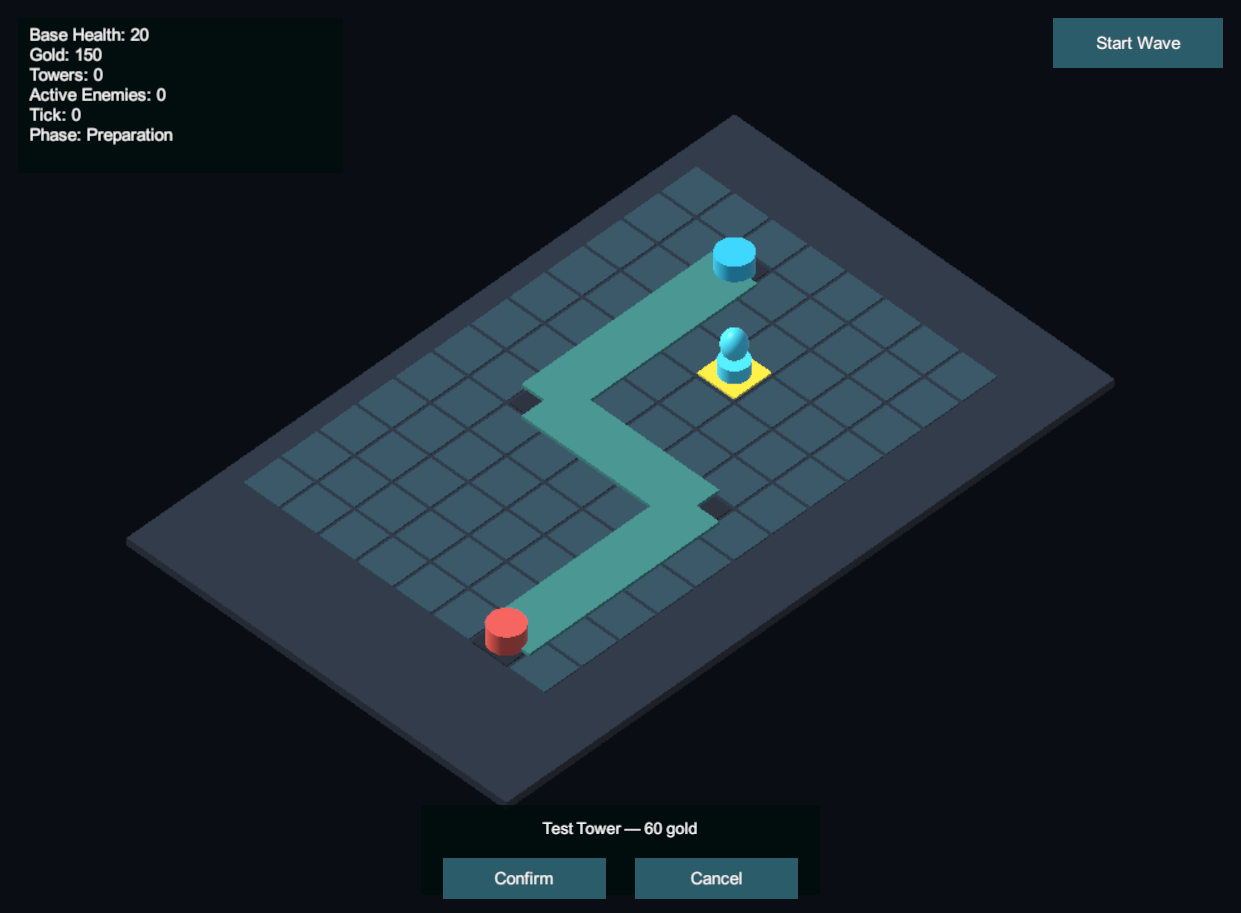
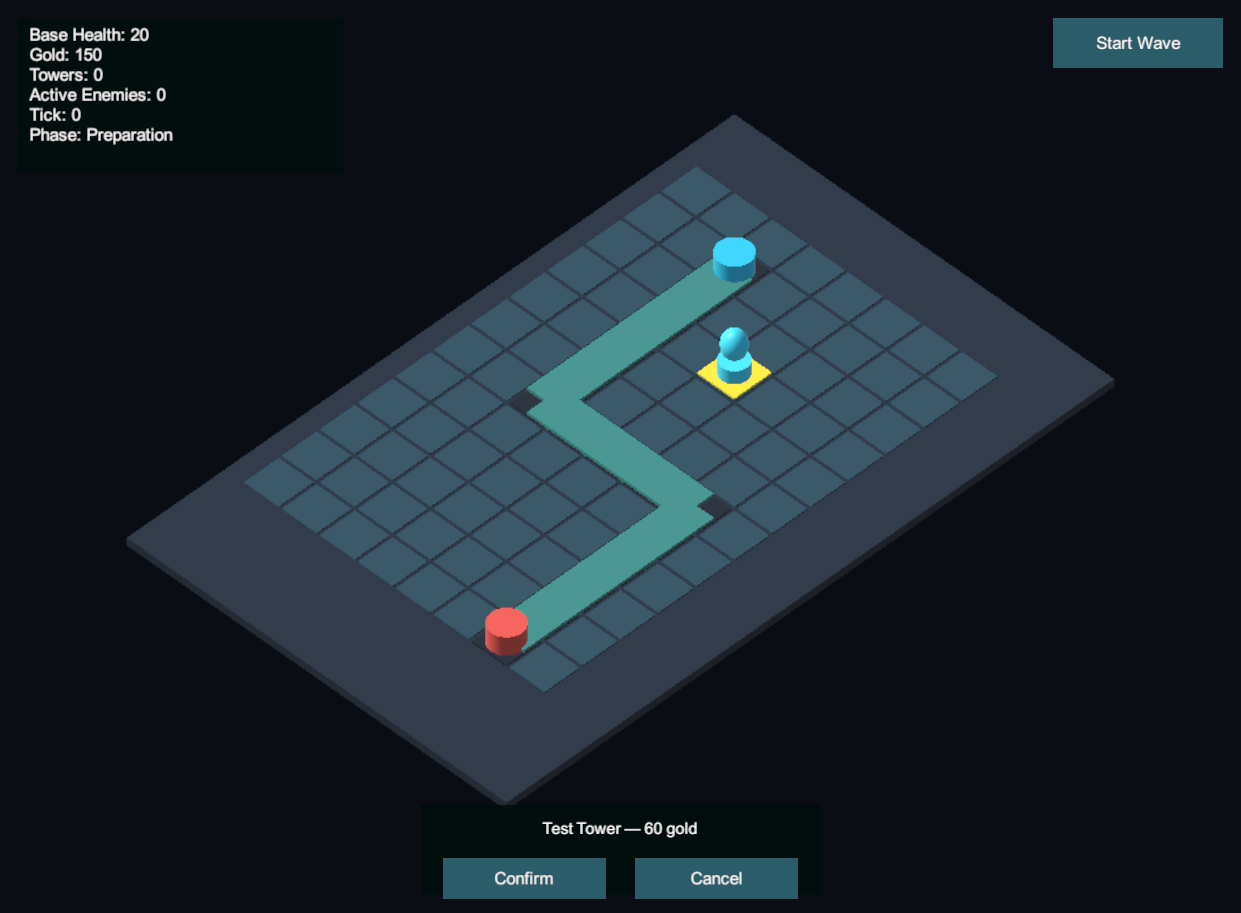
fix: scale battle visuals with cell size

diff --git a/Assets/_Game/Tests/EditMode/BattlePlacementVisualTests.cs b/Assets/_Game/Tests/EditMode/BattlePlacementVisualTests.cs
@@ -1,0 +1,153 @@
+using System.Linq;
+using System.Reflection;
+using NUnit.Framework;
+using UnityEditor;
+using UnityEngine;
+using UnityEngine.UI;
+using Veilward.Domain;
+using Veilward.Presentation;
+
+namespace Veilward.Tests.EditMode
+{
+    public sealed class BattlePlacementVisualTests
+    {
+        private GameObject _root;
+        private BattleScenarioConfig _config;
+        private BattleSceneController _battle;
+        private GameObject _towerPrefab;
+
+        [SetUp]
+        public void SetUp()
+        {
+            _root = new GameObject("Half Cell Visual Tests");
+            _config = BattleScenarioConfig.CreateDefault();
+            var serializedConfig = new SerializedObject(_config);
+            serializedConfig.FindProperty("cellSize").floatValue = 0.5f;
+            var waypoints = serializedConfig.FindProperty("waypoints");
+            waypoints.arraySize = 2;
+            waypoints.GetArrayElementAtIndex(0).vector2IntValue = new Vector2Int(-2, 0);
+            waypoints.GetArrayElementAtIndex(1).vector2IntValue = new Vector2Int(2, 0);
+            serializedConfig.ApplyModifiedPropertiesWithoutUndo();
+
+            var towerAsset = AssetDatabase.LoadAssetAtPath<GameObject>("Assets/_Game/Prefabs/TestTower.prefab");
+            Assert.That(towerAsset, Is.Not.Null);
+            _towerPrefab = Object.Instantiate(towerAsset, _root.transform);
+            _towerPrefab.name = "Tower Prefab";
+            var enemyPrefab = new GameObject("Enemy Prefab");
+            enemyPrefab.transform.SetParent(_root.transform, false);
+            var hud = new GameObject("HUD", typeof(Text));
+            hud.transform.SetParent(_root.transform, false);
+
+            var battleObject = new GameObject("Battle", typeof(BattleSceneController));
+            battleObject.transform.SetParent(_root.transform, false);
+            _battle = battleObject.GetComponent<BattleSceneController>();
+            var serializedBattle = new SerializedObject(_battle);
+            serializedBattle.FindProperty("scenario").objectReferenceValue = _config;
+            serializedBattle.FindProperty("enemyPrefab").objectReferenceValue = enemyPrefab.transform;
+            serializedBattle.FindProperty("towerPrefab").objectReferenceValue = _towerPrefab.transform;
+            serializedBattle.FindProperty("hudText").objectReferenceValue = hud.GetComponent<Text>();
+            serializedBattle.ApplyModifiedPropertiesWithoutUndo();
+            Invoke(_battle, "Start");
+        }
+
+        [TearDown]
+        public void TearDown()
+        {
+            if (_root != null)
+            {
+                Object.DestroyImmediate(_root);
+            }
+
+            if (_config != null)
+            {
+                Object.DestroyImmediate(_config);
+            }
+        }
+
+        [Test]
+        public void Placement_HalfSizeCells_ScalesSelectionAndPreview()
+        {
+            var selection = GameObject.CreatePrimitive(PrimitiveType.Cube);
+            selection.name = "Selection Highlight";
+            selection.transform.SetParent(_root.transform, false);
+            selection.transform.localScale = new Vector3(0.98f, 0.04f, 0.98f);
+            var preview = Object.Instantiate(_towerPrefab, _root.transform);
+            preview.name = "Tower Preview";
+            var panel = new GameObject("Placement Panel", typeof(RectTransform));
+            panel.transform.SetParent(_root.transform, false);
+            var confirm = CreateButton("Confirm");
+            var cancel = CreateButton("Cancel");
+            var startWave = CreateButton("Start Wave");
+            var cameraObject = new GameObject("Camera", typeof(Camera));
+            cameraObject.transform.SetParent(_root.transform, false);
+
+            var placement = _battle.gameObject.AddComponent<BattlePlacementController>();
+            var serializedPlacement = new SerializedObject(placement);
+            serializedPlacement.FindProperty("battle").objectReferenceValue = _battle;
+            serializedPlacement.FindProperty("worldCamera").objectReferenceValue = cameraObject.GetComponent<Camera>();
+            serializedPlacement.FindProperty("selectionHighlight").objectReferenceValue = selection.transform;
+            serializedPlacement.FindProperty("towerPreview").objectReferenceValue = preview.transform;
+            serializedPlacement.FindProperty("confirmationPanel").objectReferenceValue = panel;
+            serializedPlacement.FindProperty("confirmButton").objectReferenceValue = confirm;
+            serializedPlacement.FindProperty("cancelButton").objectReferenceValue = cancel;
+            serializedPlacement.FindProperty("startWaveButton").objectReferenceValue = startWave;
+            serializedPlacement.ApplyModifiedPropertiesWithoutUndo();
+            Invoke(placement, "Start");
+
+            Assert.That(placement.TrySelectCell(new GridCoordinate(-3, 1)), Is.True);
+            AssertVector(selection.transform.localScale, new Vector3(0.49f, 0.04f, 0.49f));
+            AssertVector(preview.transform.localScale, Vector3.one * 0.5f);
+        }
+
+        [Test]
+        public void Towers_HalfSizeCells_AdjacentFootprintsDoNotIntersect()
+        {
+            Assert.That(_battle.PlaceTower(new GridCoordinate(-3, 1)).Success, Is.True);
+            Assert.That(_battle.PlaceTower(new GridCoordinate(-2, 1)).Success, Is.True);
+            Invoke(_battle, "LateUpdate");
+
+            var towers = _battle.transform.Cast<Transform>()
+                .Where(child => child.name.StartsWith("Tower "))
+                .ToArray();
+            Assert.That(towers.Length, Is.EqualTo(2));
+            AssertVector(towers[0].localScale, Vector3.one * 0.5f);
+            AssertVector(towers[1].localScale, Vector3.one * 0.5f);
+            Assert.That(
+                GetBounds(towers[0]).Intersects(GetBounds(towers[1])),
+                Is.False,
+                "Towers on adjacent cells must not overlap.");
+        }
+
+        private Button CreateButton(string name)
+        {
+            var buttonObject = new GameObject(name, typeof(RectTransform), typeof(Button));
+            buttonObject.transform.SetParent(_root.transform, false);
+            return buttonObject.GetComponent<Button>();
+        }
+
+        private static Bounds GetBounds(Transform root)
+        {
+            var renderers = root.GetComponentsInChildren<Renderer>();
+            Assert.That(renderers.Length, Is.GreaterThan(0));
+            var bounds = renderers[0].bounds;
+            for (var index = 1; index < renderers.Length; index++)
+            {
+                bounds.Encapsulate(renderers[index].bounds);
+            }
+
+            return bounds;
+        }
+
+        private static void Invoke(object target, string methodName)
+        {
+            var method = target.GetType().GetMethod(methodName, BindingFlags.Instance | BindingFlags.NonPublic);
+            Assert.That(method, Is.Not.Null, methodName);
+            method.Invoke(target, null);
+        }
+
+        private static void AssertVector(Vector3 actual, Vector3 expected)
+        {
+            Assert.That(Vector3.Distance(actual, expected), Is.LessThan(0.0001f));
+        }
+    }
+}

diff --git a/Assets/_Game/Scripts/Editor/BattleSceneBuilder.cs b/Assets/_Game/Scripts/Editor/BattleSceneBuilder.cs
@@ -67,8 +67,9 @@ namespace Veilward.Editor
             CreatePathGeometry(config, pathMaterial, spawnMaterial, heartMaterial);
             var battleCamera = CreateCamera();
             CreateLight();
-            var selection = CreateSelection(selectionMaterial);
-            var preview = CreatePreview(towerPrefab, previewMaterial);
+            var cellSize = config.CreateSimulation().Grid.Map.CellSize;
+            var selection = CreateSelection(selectionMaterial, cellSize);
+            var preview = CreatePreview(towerPrefab, previewMaterial, cellSize);
             var hud = CreateHud(config.CreateSimulation().TowerDefinition.Price);
             CreateEventSystem();
             CreateController(config, enemyPrefab.transform, towerPrefab.transform, battleCamera, selection, preview, hud);
@@ -117,7 +118,9 @@ namespace Veilward.Editor
             Material spawnMaterial,
             Material heartMaterial)
         {
-            var path = config.CreateSimulation().Path;
+            var simulation = config.CreateSimulation();
+            var path = simulation.Path;
+            var pathWidth = simulation.Grid.Map.CellSize * 0.92f;
             var root = new GameObject("Path Geometry");
             for (var index = 0; index < path.Points.Count - 1; index++)
             {
@@ -130,7 +133,7 @@ namespace Veilward.Editor
                 segment.transform.SetParent(root.transform, false);
                 segment.transform.position = (start + end) * 0.5f;
                 segment.transform.rotation = Quaternion.LookRotation(delta.normalized);
-                segment.transform.localScale = new Vector3(1.2f, 0.1f, delta.magnitude);
+                segment.transform.localScale = new Vector3(pathWidth, 0.1f, delta.magnitude);
                 segment.GetComponent<Renderer>().sharedMaterial = pathMaterial;
             }
 
@@ -161,19 +164,20 @@ namespace Veilward.Editor
             return prefab;
         }
 
-        private static Transform CreateSelection(Material material)
+        private static Transform CreateSelection(Material material, float cellSize)
         {
             var selection = CreatePrimitive(PrimitiveType.Cube, "Selection Highlight");
-            selection.transform.localScale = new Vector3(0.98f, 0.04f, 0.98f);
+            selection.transform.localScale = new Vector3(0.98f * cellSize, 0.04f, 0.98f * cellSize);
             selection.GetComponent<Renderer>().sharedMaterial = material;
             selection.SetActive(false);
             return selection.transform;
         }
 
-        private static Transform CreatePreview(GameObject towerPrefab, Material material)
+        private static Transform CreatePreview(GameObject towerPrefab, Material material, float cellSize)
         {
             var preview = Object.Instantiate(towerPrefab);
             preview.name = "Tower Preview";
+            preview.transform.localScale = Vector3.one * cellSize;
             foreach (var renderer in preview.GetComponentsInChildren<Renderer>())
             {
                 renderer.sharedMaterial = material;

diff --git a/Assets/_Game/Tests/EditMode/BattleSceneBuilderTests.cs b/Assets/_Game/Tests/EditMode/BattleSceneBuilderTests.cs
@@ -38,7 +38,7 @@ namespace Veilward.Tests.EditMode
 
                     Assert.That(segment, Is.Not.Null);
                     AssertVector(segment.position, (start + end) * 0.5f, segment.name);
-                    AssertVector(segment.localScale, new Vector3(1.2f, 0.1f, delta.magnitude), segment.name);
+                    AssertVector(segment.localScale, new Vector3(0.92f, 0.1f, delta.magnitude), segment.name);
                     Assert.That(
                         Quaternion.Angle(segment.rotation, Quaternion.LookRotation(delta.normalized)),
                         Is.LessThan(0.001f));
@@ -121,13 +121,21 @@ namespace Veilward.Tests.EditMode
                 pathObject = BattleSceneBuilder.CreatePathGeometry(config, blocked, blocked, blocked);
 
                 var roadCell = gridObject.transform.Find("Cell_-4_0");
+                var adjacentBuildableCell = gridObject.transform.Find("Cell_-4_1");
                 var pathSegment = pathObject.transform.Find("Path Segment 0");
                 Assert.That(roadCell, Is.Not.Null);
+                Assert.That(adjacentBuildableCell, Is.Not.Null);
                 Assert.That(roadCell.GetComponent<Renderer>().sharedMaterial, Is.SameAs(blocked));
+                Assert.That(adjacentBuildableCell.GetComponent<Renderer>().sharedMaterial, Is.SameAs(available));
                 AssertVector(roadCell.position, new Vector3(-2f, 0f, 0f), roadCell.name);
                 AssertVector(roadCell.localScale, new Vector3(0.46f, 0.04f, 0.46f), roadCell.name);
                 AssertVector(pathSegment.position, new Vector3(0f, 0.05f, 0f), pathSegment.name);
-                AssertVector(pathSegment.localScale, new Vector3(1.2f, 0.1f, 4f), pathSegment.name);
+                AssertVector(pathSegment.localScale, new Vector3(0.46f, 0.1f, 4f), pathSegment.name);
+                Assert.That(
+                    pathSegment.GetComponent<Renderer>().bounds.Intersects(
+                        adjacentBuildableCell.GetComponent<Renderer>().bounds),
+                    Is.False,
+                    "The visible road must not overlap an adjacent buildable cell.");
             }
             finally
             {

diff --git a/Assets/_Game/Scripts/Presentation/BattlePlacementController.cs b/Assets/_Game/Scripts/Presentation/BattlePlacementController.cs
@@ -43,6 +43,9 @@ namespace Veilward.Presentation
             confirmButton.onClick.AddListener(ConfirmSelection);
             cancelButton.onClick.AddListener(CancelSelection);
             startWaveButton.onClick.AddListener(StartWave);
+            var cellSize = battle.Simulation.Grid.Map.CellSize;
+            selectionHighlight.localScale = new Vector3(0.98f * cellSize, 0.04f, 0.98f * cellSize);
+            towerPreview.localScale = Vector3.one * cellSize;
             CancelSelection();
         }
 

diff --git a/Assets/_Game/Scripts/Presentation/BattleSceneController.cs b/Assets/_Game/Scripts/Presentation/BattleSceneController.cs
@@ -124,6 +124,7 @@ namespace Veilward.Presentation
                 var view = Instantiate(towerPrefab, transform);
                 view.name = $"Tower {tower.Id.Value}";
                 view.position = GetCellCenter(tower.Coordinate);
+                view.localScale = Vector3.one * _simulation.Grid.Map.CellSize;
                 _towerViews.Add(tower.Id, view);
             }
         }

diff --git a/Docs/TECH_DESIGN.md b/Docs/TECH_DESIGN.md
@@ -65,7 +65,7 @@ Docs/
 
 ### P1.2 implemented contract
 
-`GridMapDefinition` задаёт карту 12×8 с origin `(-6,-4)` и cell size 1 в текущем scenario; поддерживаются любые конечные положительные значения `CellSize`. `BattleGrid` переводит world-space waypoints в координаты клеток делением на `CellSize`, затем применяет тот же DDA/supercover rasterizer для промежуточных и diagonal cells. Визуальная дорога использует исходные world-space waypoints и совпадает с заблокированными клетками, включая регрессионный случай `CellSize = 0.5`. Маршрут при строительстве не пересчитывается и не меняется.
+`GridMapDefinition` задаёт карту 12×8 с origin `(-6,-4)` и cell size 1 в текущем scenario; поддерживаются любые конечные положительные значения `CellSize`. `BattleGrid` переводит world-space waypoints в координаты клеток делением на `CellSize`, затем применяет тот же DDA/supercover rasterizer для промежуточных и diagonal cells. Визуальная дорога использует исходные world-space waypoints и ширину `0.92 × CellSize`, совпадая с заблокированными клетками и не перекрывая соседние buildable cells. Tower view, preview и selection highlight масштабируются по `CellSize`; regression tests при `CellSize = 0.5` проверяют реальные `Renderer.bounds` дороги и соседних башен. Маршрут при строительстве не пересчитывается и не меняется.
 
 `BattleSimulation.PlaceTower()` атомарно проверяет фазу `Preparation`, известный `TowerDefinitionId`, границы и состояние клетки и достаточность золота. При успехе он один раз списывает цену, занимает клетку и добавляет `TowerState` с уникальным последовательным положительным `TowerId`; при ошибке состояние не меняется. Повторная команда по занятой клетке не списывает золото. `BattleGrid.Map` и `GetState()` предоставляют публичный read-only доступ, а `TryOccupy()` доступен только внутри Domain. `TowerState` отклоняет `default(TowerId)` и любой неположительный ID. Текущий `TestTower` стоит 60 gold при стартовых 150 gold; атака, продажа и улучшения не входят в контракт.
 
